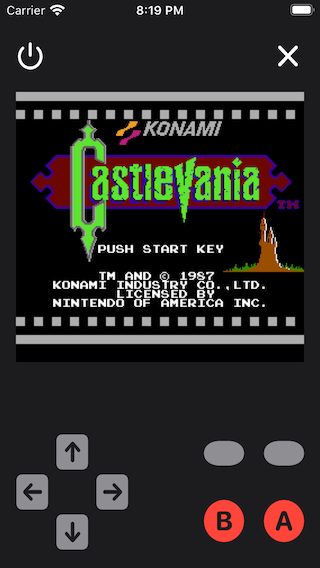
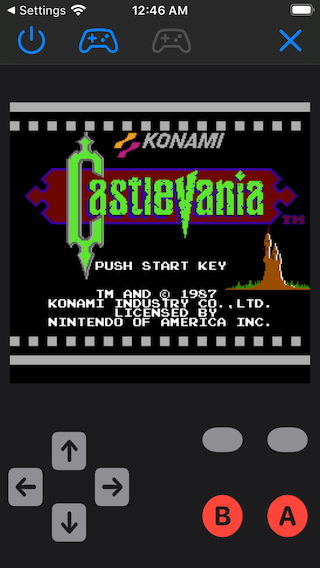
update screenshot.  show touchscreen controls all the time in iOS simulator

diff --git a/nes-emu-ios/nes-emu-ios/ViewControllers/NESRomViewController.swift b/nes-emu-ios/nes-emu-ios/ViewControllers/NESRomViewController.swift
@@ -448,6 +448,9 @@ class NESRomViewController: UIViewController
     
     private func setOnScreenControlsHidden(_ hidden: Bool, animated aAnimated: Bool)
     {
+#if targetEnvironment(simulator)
+        
+#else
         let buttons: [UIButton] = [self.aButton, self.bButton, self.upButton, self.downButton, self.leftButton, self.rightButton, self.selectButton, self.startButton]
         
         guard aAnimated else
@@ -480,6 +483,7 @@ class NESRomViewController: UIViewController
                 b.isHidden = hidden
             }
         }
+#endif
     }
     
     private func setupButtons()
